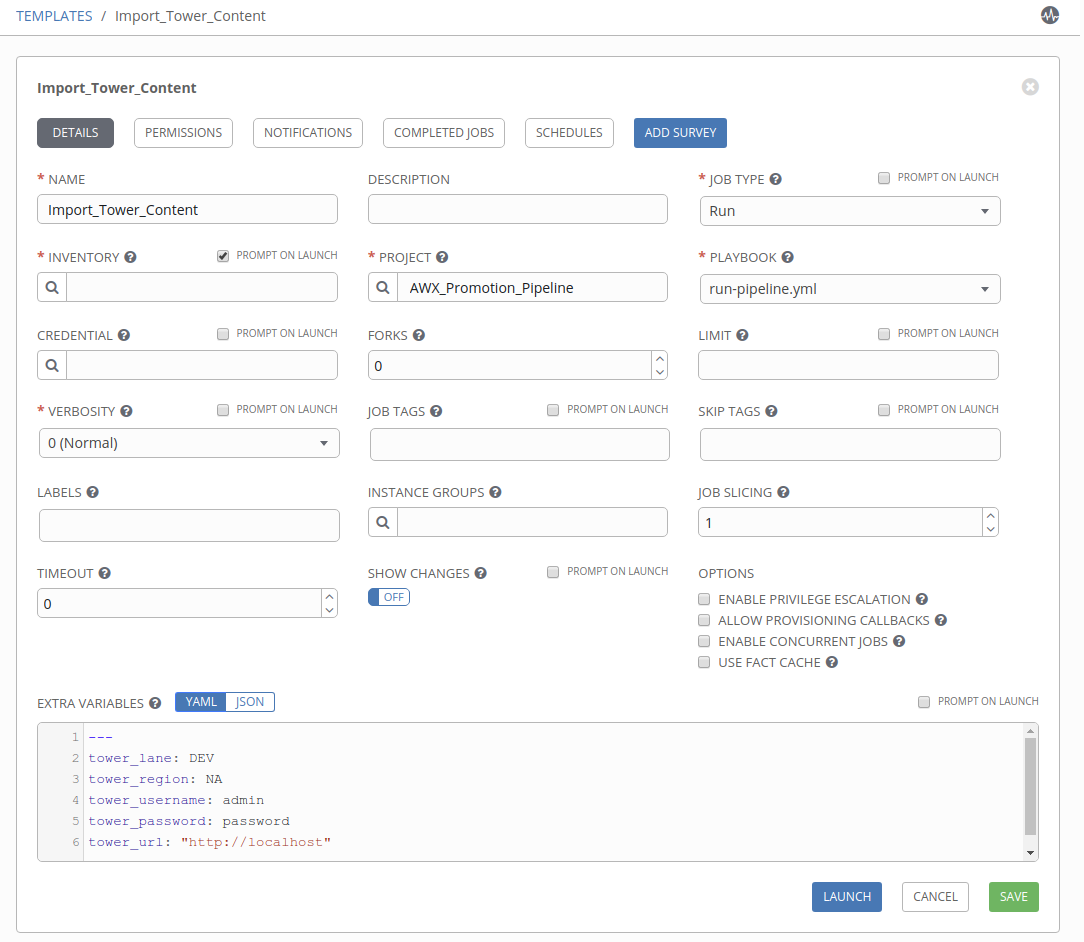
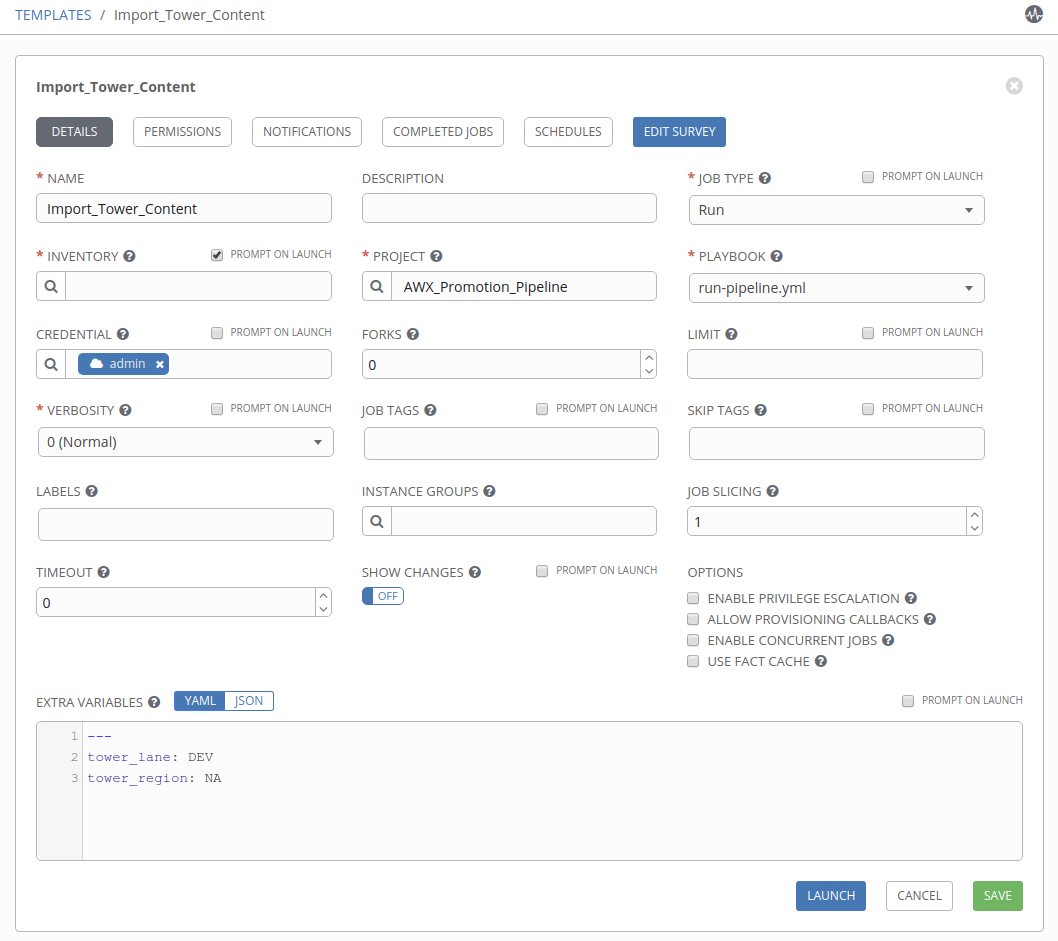
Adding Jenkins Documentation

diff --git a/README.md b/README.md
@@ -10,12 +10,24 @@ Ansible AWX code promotion solution using Ansible playbooks and the tower module
     - [Python Packages](#python-packages)
   - [Getting Started](#getting-started)
     - [Generate Base .awx-pipeline.yml](#generate-base-awx-pipelineyml)
-    - [Importing Content](#importing-content)
-    - [Example Ansible Tower Import Job](#example-ansible-tower-import-job)
-  - [Supported Parameters](#supported-parameters)
-    - [Project](#project)
-    - [Job Template](#job-template)
-  - [Appendix: Todo](#appendix-todo)
+  - [Using the pipeline](#using-the-pipeline)
+    - [Consume Pipeline using Ansible-Playbook (CLI)](#consume-pipeline-using-ansible-playbook-cli)
+    - [Consume Pipeline using Ansible AWX](#consume-pipeline-using-ansible-awx)
+      - [Create Ansible Tower Credential](#create-ansible-tower-credential)
+      - [Create Job Template](#create-job-template)
+      - [Create Survey Spec](#create-survey-spec)
+      - [Launch Job Template](#launch-job-template)
+    - [Consume Pipeline using Jenkins](#consume-pipeline-using-jenkins)
+      - [Install Plugins](#install-plugins)
+      - [Add Ansible Tower Configuration](#add-ansible-tower-configuration)
+      - [Create Freestyle Build](#create-freestyle-build)
+      - [Execute build](#execute-build)
+    - [Results](#results)
+  - [Appendix](#appendix)
+    - [Supported Parameters](#supported-parameters)
+      - [Project](#project)
+      - [Job Template](#job-template)
+    - [Todo](#todo)
   - [Authors](#authors)
 
 ## Requirements
@@ -88,9 +100,11 @@ project:
 
 You can add additional configuration to this file, and then place it in your code repository base, named `.awx-pipeline.yml`. See [Supported Paramters](#supported-parameters)
 
-### Importing Content
+## Using the pipeline
 
-You will need to provide the following variables to the pipeline
+### Consume Pipeline using Ansible-Playbook (CLI)
+
+You will need to provide the following variables
 
 - `git_scm_url` (required) - Git repository where Ansible code + .awx-pipeline.yml file exists.
 - `git_scm_version` (optional) - Branch/Tag/Commit to specifically use a version of .awx-pipeline.yml
@@ -100,10 +114,9 @@ These variables are covered in the lane/region specific var files in `vars/`. Se
 
 - `tower_lane` - Dev, UAT, Prod, etc.
 - `tower_region` - NA, EU, ASIA, SA, etc.
-- `tower_host_api` - Base url (localhost)
-- `tower_username_api` - Tower username
-- `tower_password_api` - Tower password
-- `tower_proto_api` - Http or https
+- `tower_url` - Base url (http://localhost)
+- `tower_username` - Tower username (admin)
+- `tower_password` - Tower password (password)
 
 Execute the `run-pipeline.yml` with your vars file `vars/@NA_development.yml`. (See: [Getting Started](#getting-started)), and your `git_scm_url`, which is the code you are wanting to deploy to Ansible Tower.
 
@@ -113,7 +126,106 @@ ansible-playbook run-pipeline.yml \
   -e git_scm_url=https://github.com/anthonyloukinas/ping.git
 ```
 
-This code will create your project, and your defined job templates.
+### Consume Pipeline using Ansible AWX
+
+#### Create Ansible Tower Credential
+
+Start by creating an `Ansible Tower` type credential which will contain your URL, Username, and Password to authenticate to your AWX.
+
+![Create Tower Credential](images/create_tower_cred.png)
+
+#### Create Job Template
+
+- Project: Use this repository, or your own copy.
+- Inventory: Use something with localhost. (only preferred)
+- Credential: Your Ansible Tower credential.
+- Extra Vars: Your tower_lane and tower_region vars.
+
+![Import Job Template](images/import_content_template.png)
+
+#### Create Survey Spec
+
+![Survey Edit](images/survey_edit.png)
+
+#### Launch Job Template
+
+![Survey Prompt](images/survey_prompt.png)
+
+### Consume Pipeline using Jenkins
+
+You will need to setup a job template on your target Ansible Tower to perform the importing. See: [Consume Pipeline using Ansible AWX](#consume-pipeline-using-ansible-awx) and follow all steps.
+
+#### Install Plugins
+
+Home -> Manage Jenkins -> Manage Plugins -> Click "Available" tab
+
+Now in the filter search, search for "ansible" and install both plugins
+
+- `Ansible plugin`
+- `Ansible Tower Plugin`
+- `AnsiColor` - Optional, but recommended for color job outputs in Jenkins.
+
+![Install Ansible Plugin](images/jenkins/install_plugin.png)
+
+Optionally install the `AnsiColor` plugin for color outputs.
+
+![Install AnsiColor](images/jenkins/install_ansicolor.png)
+
+#### Add Ansible Tower Configuration
+
+You need the Ansible Tower plugin installed See: [Install Ansible Plugins](#install-plugins)
+
+Home -> Manage Jenkins -> Configure System -> Add Ansible Tower
+
+![Ansible Tower Configuration](images/jenkins/configure_ansible_tower_instance.png)
+*Note: You will need to create an Ansible Tower credential to authenticate. This user just needs execute access to the import job template*
+
+#### Create Freestyle Build
+
+Home -> New Item -> Freestyle Project
+
+Under `Source Code Management`, Select Git, and fill this out with your Ansible code repository.
+
+![Source Control](images/jenkins/build_source_control.png)
+
+Optionally you can configure polling, which will check into your repo for git commit changes and kick off builds automatically. The supported timing, is cron style.
+
+15 minute polling example:
+```
+H/15 * * * *
+```
+*Note: Use this website for creating easy to use cron timings https://crontab.guru/*
+
+![Git Poll](images/jenkins/build_git_poll.png)
+
+Next, add a New Build Step of type `Ansible Tower`.
+
+Fill in your Server and Credentials details. You will also need to find the Template ID from the template you should have created in this step. See: [Consume Pipeline using Ansible AWX](#consume-pipeline-using-ansible-awx). You can get this ID, buy viewing the job template in Tower, and looking at the url.
+
+- Extra Vars:
+  - tower_region
+  - tower_lane
+  - git_scm_url
+- Inventory: Use an inventory with localhost
+- Credential: Use your [Ansible Tower Credential](#create-ansible-tower-credential)
+
+![Build Step](images/jenkins/build_step.png)
+
+If you installed `AnsiColor` in step [Install Plugins](#install-plugins), Enable it in Build Environment.
+
+![Build environment](images/jenkins/build_env.png)
+
+Save build.
+
+#### Execute build
+
+Browse to new Build Job, and click "Build Now" to initiate a build order.
+
+On the left hand side you will see the new "#1" build begin, click the number to be taken to the build page. If you click "Console Output" you will be taken to the Playbook output from Ansible AWX.
+
+![Job Output](images/jenkins/job_output.png)
+
+### Results
 
 **Project**
 ![Project](images/project.png)
@@ -121,15 +233,11 @@ This code will create your project, and your defined job templates.
 **Job Template**
 ![Template](images/template.png)
 
-### Example Ansible Tower Import Job
+## Appendix
 
-You would prompt the user in a survey for the variable `git_scm_url`. Also ideally, you use an Ansible Tower credential, or vault your username/password instead of using extra_vars.
+### Supported Parameters
 
-![Import Job Template](images/import_content_template.png)
-
-## Supported Parameters
-
-### Project
+#### Project
 
 | Parameter | Choices/Defaults | Comments |
 | --- | --- | --- |
@@ -142,7 +250,7 @@ You would prompt the user in a survey for the variable `git_scm_url`. Also ideal
 | scm_update_on_launch | Default: no | Before an update to the local repository before launching a job with this project. |
 | scm_url | Default: None | URL of scm resource. |
 
-### Job Template
+#### Job Template
 
 | Parameter | Choices/Defaults | Comments |
 | --- | --- | --- |
@@ -176,7 +284,7 @@ You would prompt the user in a survey for the variable `git_scm_url`. Also ideal
 | vault_credential | Default: | Name of the vault credential to use for the job template. |
 | verbosity | Default: 0 | Control the output level Ansible produces as the playbook runs. 0 - Normal, 1 - Verbose, 2 - More Verbose, 3 - Debug, 4 - Connection Debug. |
 
-## Appendix: Todo
+### Todo
 
 - Support Ansible Tower credential type.
 - Support Ansible Vaulting Tower Credentials.
